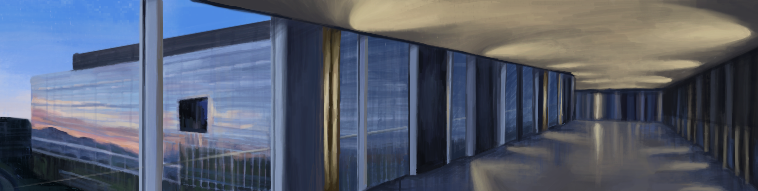
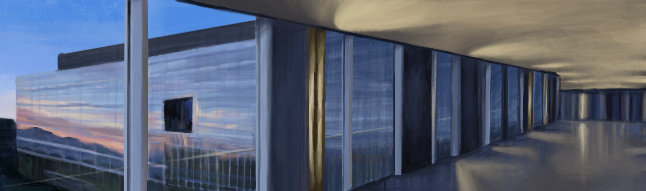
add art

diff --git a/src/lib/art.tsx b/src/lib/art.tsx
@@ -1,18 +1,19 @@
 export const images = [
   {
     src: "/art/linkedinbridgecropped.png",
-    alt: "linkedin bridge",
+    alt: "linkedin bridge (cropped ver.)",
     title: "linkedin bridge",
     date: "02/12/24",
     media: "procreate",
   },
   {
-    src: "/art/blue.jpeg",
-    alt: "butterflies",
-    title: "blue butterflies",
-    date: "07/10/2021",
-    media: "colour pencils",
+    src: "/art/makicrop.jpg",
+    alt: "maki",
+    title: "maki from jjk",
+    date: "07/10/2022",
+    media: "krita digital art",
   },
+
   {
     src: "/art/portugal.JPG",
     alt: "europe architecture",
@@ -20,6 +21,7 @@ export const images = [
     date: "03/20/2024",
     media: "winsor newton watercolour",
   },
+
   {
     src: "/art/watercolour.JPG",
     alt: "purple watercolour",
@@ -49,11 +51,11 @@ export const images = [
     media: "colour pencils",
   },
   {
-    src: "/art/makicrop.jpg",
-    alt: "maki",
-    title: "maki from jjk",
-    date: "07/10/2022",
-    media: "krita digital art",
+    src: "/art/blue.jpeg",
+    alt: "butterflies",
+    title: "blue butterflies",
+    date: "07/10/2021",
+    media: "colour pencils",
   },
   {
     src: "/art/uncle.jpg",
